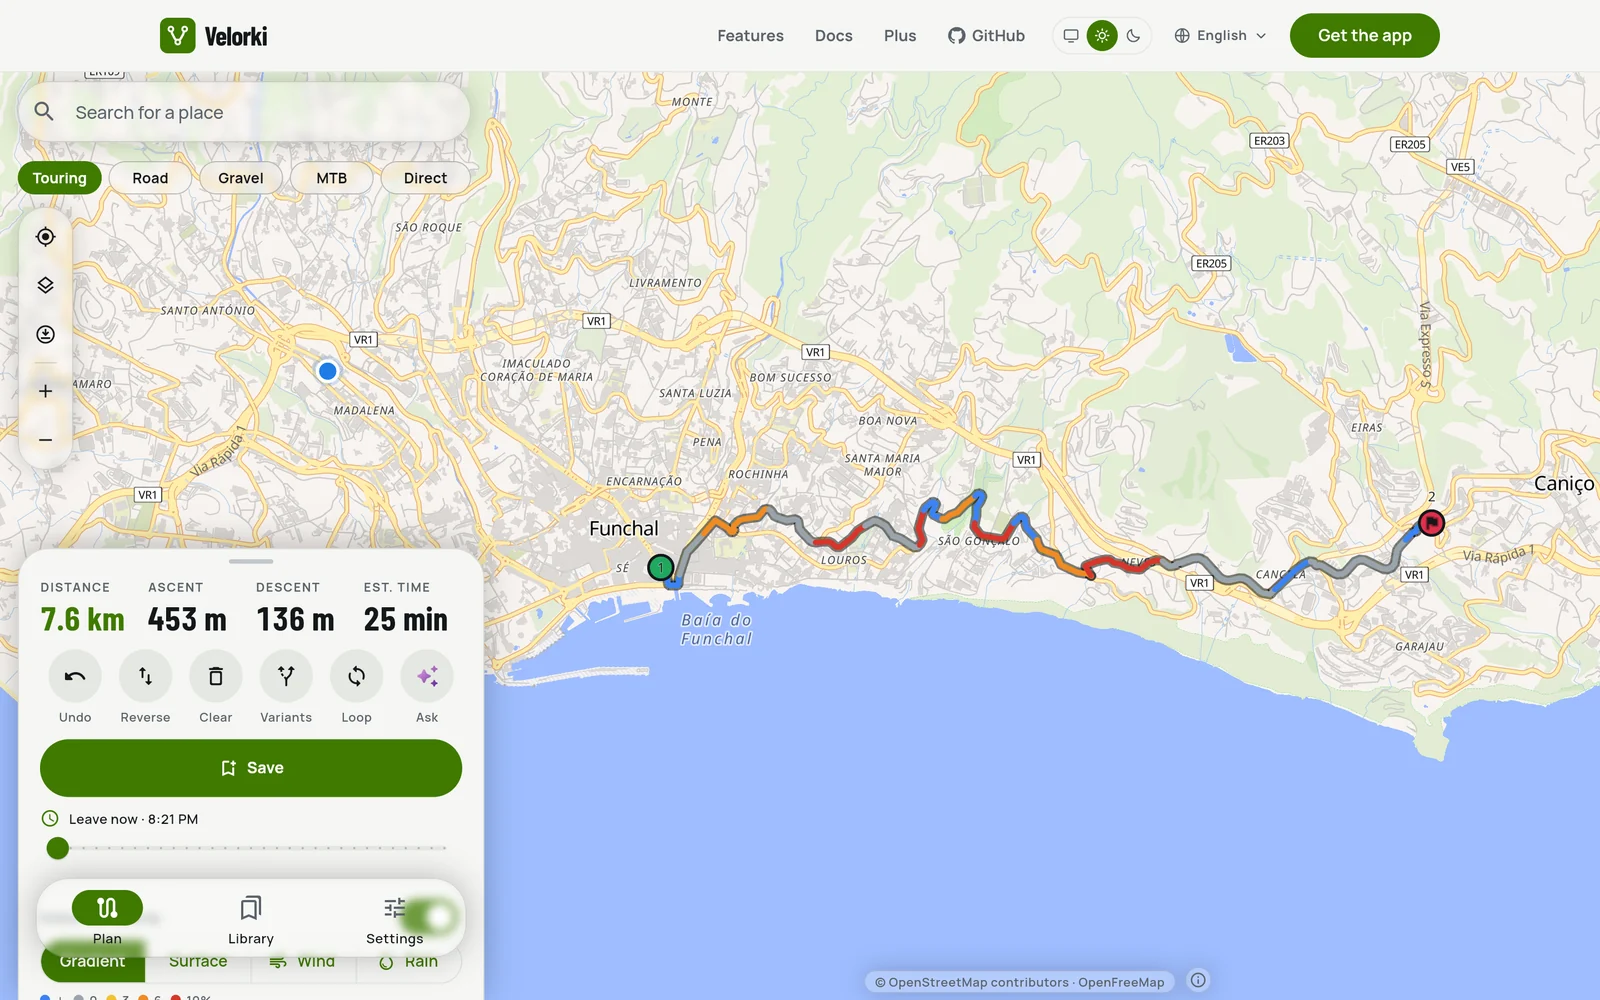
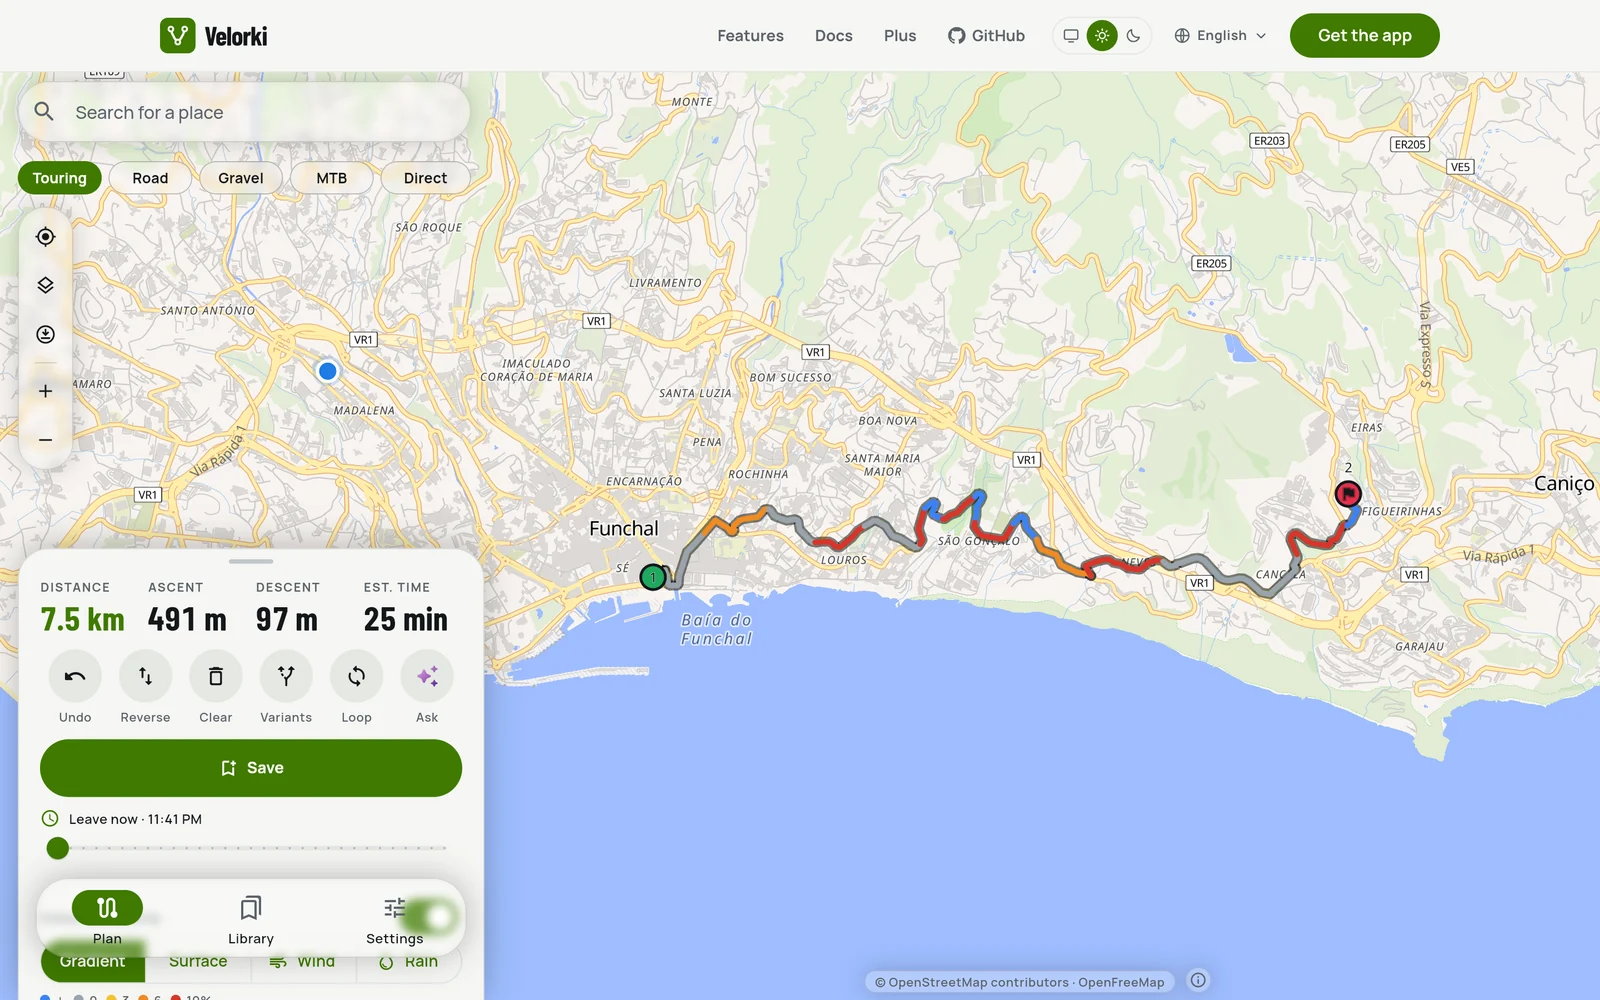
Site: the hero's browser link scrolls to the planner section; its screenshot follows the theme
The link went straight to the planner; it now lands on the section that says
what the browser version does, and only the section's button opens it. The
section's screenshot has a dark twin, picked through useAppearance like the
phone shots, both captured from app.velorki.com with the same route.

diff --git a/web/src/app/(site)/[locale]/page.tsx b/web/src/app/(site)/[locale]/page.tsx
@@ -1,6 +1,5 @@
 // SPDX-License-Identifier: AGPL-3.0-only
 import type { Metadata } from 'next';
-import Image from 'next/image';
 import Link from 'next/link';
 import { useTranslations } from 'next-intl';
 import { getTranslations, setRequestLocale } from 'next-intl/server';
@@ -10,6 +9,7 @@ import { JsonLd } from '@/components/JsonLd';
 import { PhoneFrame } from '@/components/PhoneFrame';
 import { StoreBadges } from '@/components/StoreBadges';
 import { WatchMock } from '@/components/WatchMock';
+import { WebPlannerShot } from '@/components/WebPlannerShot';
 import { routing } from '@/i18n/routing';
 import { GITHUB_URL, PLANNER_URL } from '@/site/config';
 import { faqJsonLd } from '@/site/jsonld';
@@ -98,9 +98,6 @@ const COMPARISON: ReadonlyArray<{ id: string; free: boolean }> = [
 const WEB_DOES = ['routing', 'elevation', 'maps', 'library'] as const;
 const WEB_DOESNT = ['ride', 'offline', 'connections'] as const;
 
-/** A capture of the planner in a 1440 × 900 browser window (light, Madeira), from app/build/web. */
-const WEB_SHOT = { src: '/screenshots/web/planner-light.webp', width: 1600, height: 1000 };
-
 const FAQ_IDS = ['account', 'offline', 'price', 'plus', 'data', 'osm', 'opensource', 'selfhost'] as const;
 
 export function generateStaticParams() {
@@ -164,10 +161,13 @@ function Hero({ locale }: { locale: string }) {
           </div>
           <StoreBadges className="mt-10" />
           {/* The web planner, where one is deployed: a quiet line under the
-              badges, not a third call to action beside them. */}
+              badges, not a third call to action beside them. It goes to the
+              section below, which says what the planner does and leaves the
+              opening of it to its own button; the scroll is the page's own
+              (smooth unless reduced motion is asked for, clear of the header). */}
           {PLANNER_URL ? (
             <p className="mt-5 text-sm">
-              <a href={PLANNER_URL} className="link-accent font-bold">
+              <a href="#web-planner" className="link-accent font-bold">
                 {t('browserLink')} →
               </a>
             </p>
@@ -548,14 +548,7 @@ function WebPlanner({ locale }: { locale: string }) {
           </p>
         </div>
         <div className="panel overflow-hidden p-0">
-          <Image
-            src={WEB_SHOT.src}
-            alt={t('alt')}
-            width={WEB_SHOT.width}
-            height={WEB_SHOT.height}
-            sizes="(min-width: 1024px) 600px, 100vw"
-            className="block h-auto w-full"
-          />
+          <WebPlannerShot alt={t('alt')} />
         </div>
       </div>
     </section>

diff --git a/web/src/components/WebPlannerShot.tsx b/web/src/components/WebPlannerShot.tsx
@@ -1,0 +1,30 @@
+'use client';
+// SPDX-License-Identifier: AGPL-3.0-only
+import Image from 'next/image';
+import { useAppearance } from './Appearance';
+
+/** The web planner in a 1440 × 900 browser window, light and dark (public/screenshots/web). */
+export const WEB_SHOT = { width: 1600, height: 1000 } as const;
+
+export function webShotSrc(mode: 'light' | 'dark'): string {
+  return `/screenshots/web/planner-${mode}.webp`;
+}
+
+/**
+ * The landing page's web planner capture, in the look the phone frames are
+ * in: the site's palette, or the one the appearance switcher picked
+ * (`useAppearance`), so the two pictures never disagree.
+ */
+export function WebPlannerShot({ alt }: { alt: string }) {
+  const { look } = useAppearance();
+  return (
+    <Image
+      src={webShotSrc(look.mode)}
+      alt={alt}
+      width={WEB_SHOT.width}
+      height={WEB_SHOT.height}
+      sizes="(min-width: 1024px) 600px, 100vw"
+      className="block h-auto w-full"
+    />
+  );
+}

diff --git a/web/public/screenshots/README.md b/web/public/screenshots/README.md
@@ -53,15 +53,19 @@ language is only worth taking for the figures the phone sends it.
 ## The browser slot
 
 ```
-public/screenshots/web/planner-light.webp
+public/screenshots/web/planner-<mode>.webp
 ```
 
-One file, outside the grid and not written by the pipeline: the web planner
-(`app/web`, built with `flutter build web`) in a 1440 × 900 Chrome window at
-twice the density, light, with a route along Madeira's coast, as the landing
-page's web planner section shows it. Taken by hand from `app/build/web` served
-with `app/tool/web_serve.py`, resized to 1600 × 1000 and saved as WebP
-(quality 86). Shown only where `NEXT_PUBLIC_PLANNER_URL` is set.
+Two files, outside the grid and not written by the pipeline: the web planner
+in a 1440 × 900 Chrome window at twice the density, `light` and `dark` (the
+app's own theme, the map look on Automatic), with the same route along
+Madeira's coast (Funchal to Caniço, Touring, coloured by gradient) in the
+same framing, as the landing page's web planner section shows it. The section
+swaps them as the phone frames swap theirs (`WebPlannerShot`, through
+`useAppearance`). Taken by hand from https://app.velorki.com (or `app/build/web`
+served with `app/tool/web_serve.py`), both from the same build, resized to
+1600 × 1000 and saved as WebP (quality 86). Shown only where
+`NEXT_PUBLIC_PLANNER_URL` is set.
 
 ## Format
 
